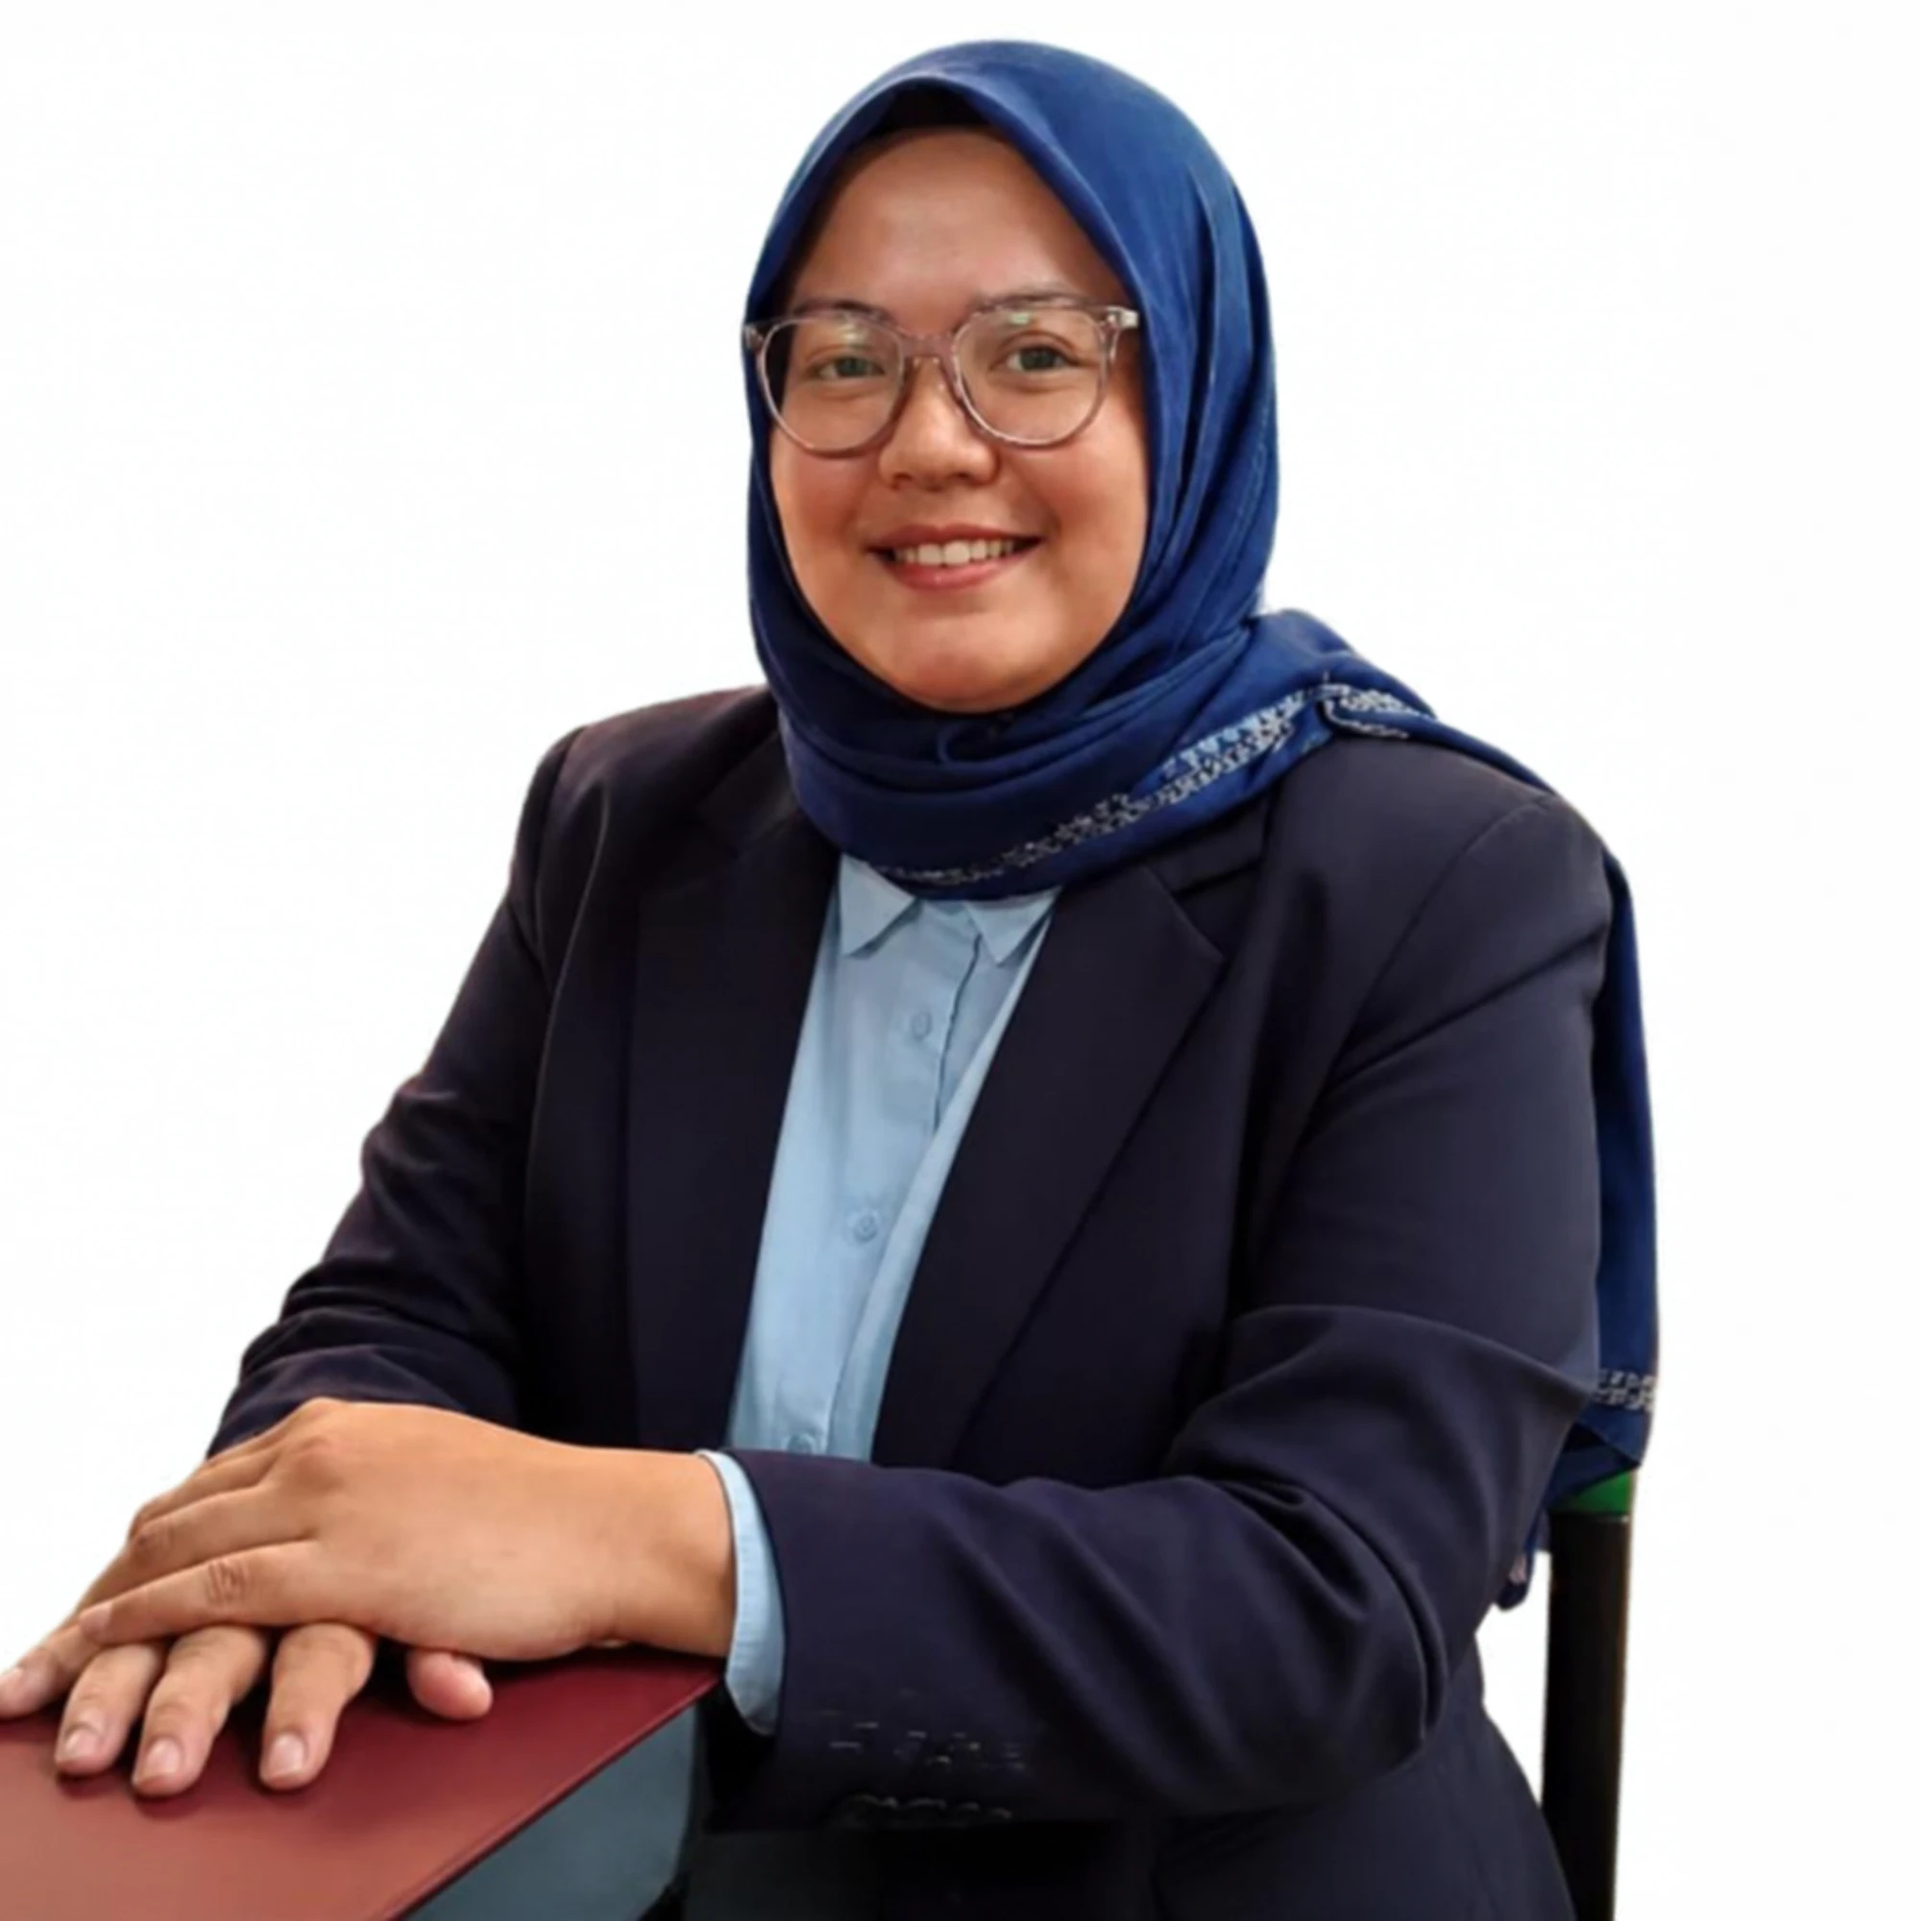
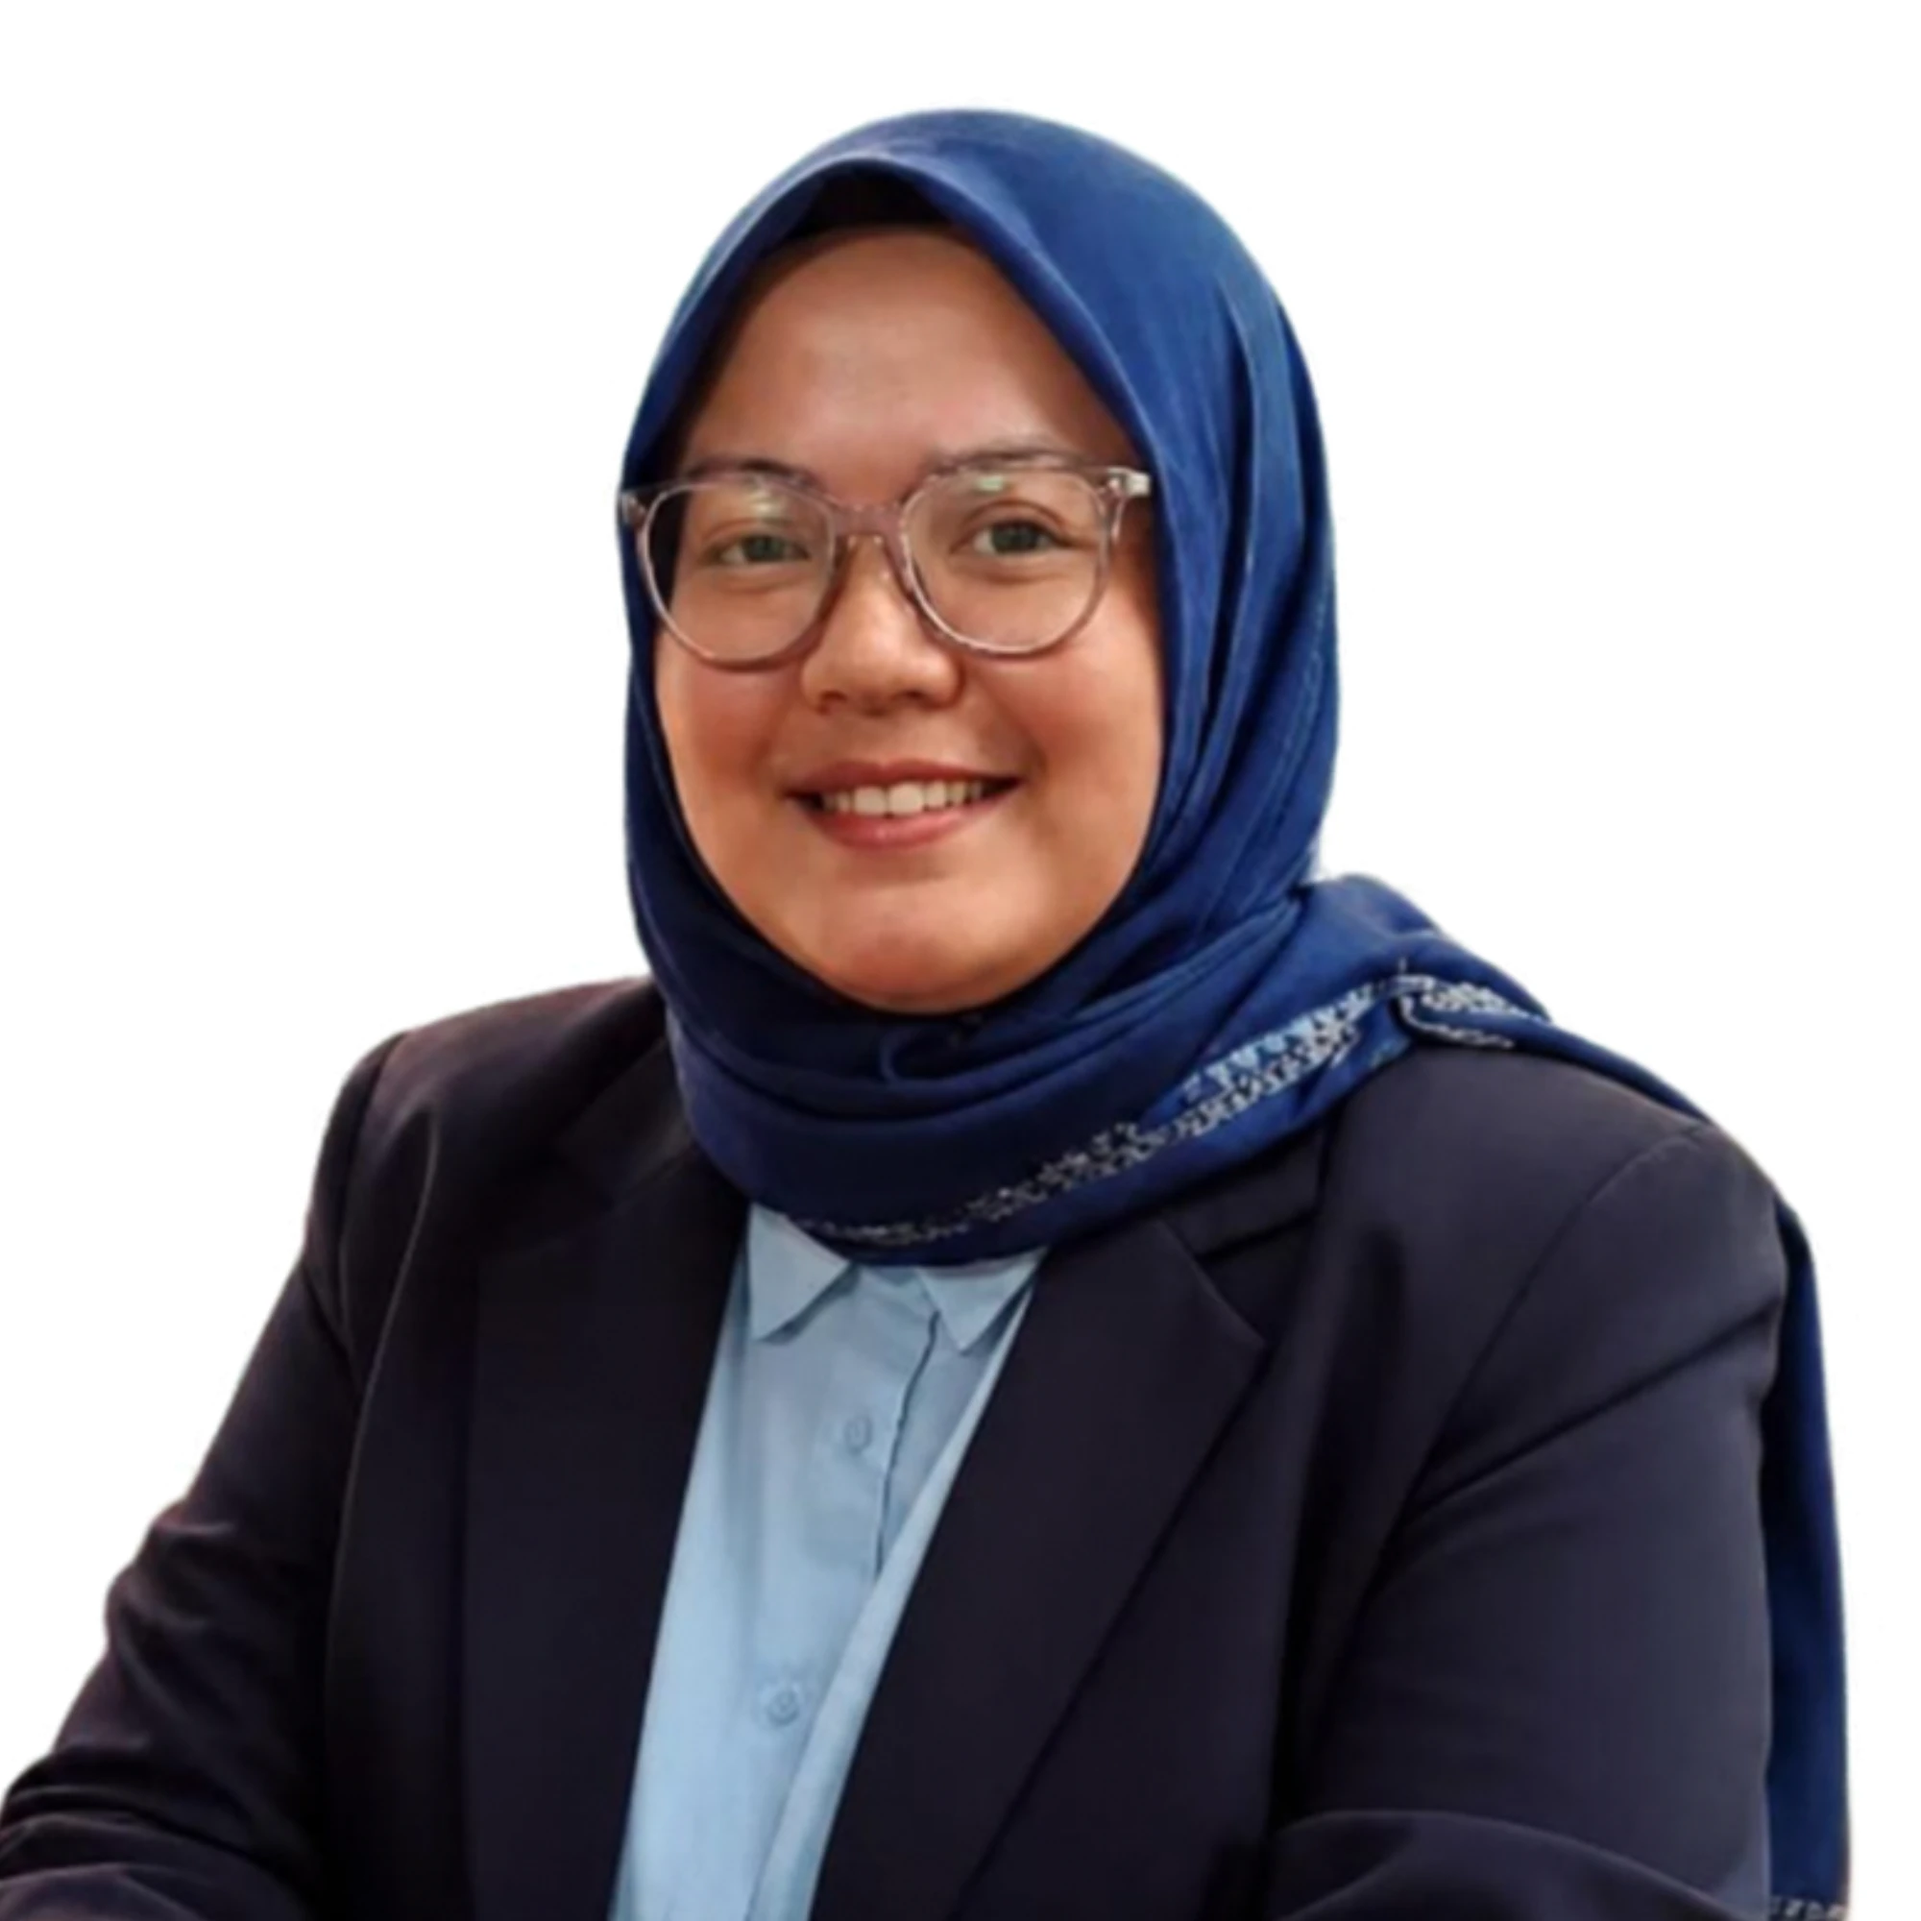
Update foto narasumber, radius card seragam, dan poster bisa diklik
- Ganti foto Aomi Hazelia Dewi dan Indah Chindarwani dengan versi
  terbaru di assets dan section Narasumber & Pemateri
- Radius sudut foto narasumber disamakan di keempat sisi (sebelumnya
  notch-corner asimetris)
- Poster workshop di hero sekarang bisa diklik untuk membuka lightbox
  agar terlihat lebih jelas, plus ukuran poster diperbesar sedikit di
  desktop maupun mobile
- lucide.createIcons() dibungkus try/catch supaya kegagalan load ikon
  tidak menghentikan script countdown & lightbox

Claude-Session: https://claude.ai/code/session_015qWhZgvfSPXgBv58rmP4G6

diff --git a/workshop-haccp.html b/workshop-haccp.html
@@ -203,19 +203,53 @@ p{margin:0; text-align:left}
 
 .hero-poster{
   position:relative; border-radius:var(--radius-l); overflow:hidden;
-  aspect-ratio:4/5; max-width:420px; margin-inline:auto;
-  border:1px solid rgba(0, 77, 64, 0.08);
+  aspect-ratio:4/5; max-width:480px; margin-inline:auto;
+  border:1px solid rgba(0, 77, 64, 0.08); display:block; width:100%;
+  padding:0; background:none; font:inherit; cursor:zoom-in;
   box-shadow:0 24px 48px -12px rgba(0, 77, 64, 0.3);
+  transition:transform .3s ease, box-shadow .3s ease;
 }
+.hero-poster:hover{transform:translateY(-4px); box-shadow:0 28px 56px -12px rgba(0, 77, 64, 0.38)}
+.hero-poster:focus-visible{outline:3px solid var(--s-500); outline-offset:3px}
 .hero-poster::before{
   content:''; position:absolute; top:0; left:0; width:100%; height:6px; z-index:1;
   background:linear-gradient(90deg, #059669 0%, #10B981 50%, #F59E0B 100%);
 }
 .hero-poster__img{width:100%; height:100%; object-fit:cover; display:block}
+.hero-poster__zoom-hint{
+  position:absolute; right:14px; bottom:14px; z-index:2;
+  width:40px; height:40px; border-radius:50%;
+  background:rgba(0, 0, 0, 0.55); color:#fff; display:grid; place-items:center;
+  backdrop-filter:blur(4px); -webkit-backdrop-filter:blur(4px);
+}
 
 @media (max-width:960px){
   .hero__grid{grid-template-columns:1fr; gap:36px}
-  .hero-poster{max-width:340px}
+  .hero-poster{max-width:380px}
+}
+
+/* --- Lightbox Poster --- */
+.lightbox{
+  display:none; position:fixed; inset:0; z-index:200;
+  background:rgba(0, 20, 16, 0.88); backdrop-filter:blur(4px);
+  align-items:center; justify-content:center; padding:32px;
+}
+.lightbox.open{display:flex}
+.lightbox__img{
+  max-width:min(92vw, 520px); max-height:88vh; width:auto; height:auto;
+  border-radius:var(--radius-m); box-shadow:0 24px 60px rgba(0,0,0,.5);
+  display:block;
+}
+.lightbox__close{
+  position:absolute; top:20px; right:20px; z-index:1;
+  width:44px; height:44px; border-radius:50%; border:none; cursor:pointer;
+  background:rgba(255,255,255,0.12); color:#fff; display:grid; place-items:center;
+  transition:background .2s ease;
+}
+.lightbox__close:hover{background:rgba(255,255,255,0.25)}
+@media (max-width:640px){
+  .lightbox{padding:20px}
+  .lightbox__close{top:12px; right:12px}
 }
 
 /* --- SECTION: JADWAL & INVESTASI --- */
@@ -300,7 +334,7 @@ p{margin:0; text-align:left}
 
 .speaker-photo{
   position:relative; width:100%; aspect-ratio:6/5; overflow:hidden;
-  border-radius:28px 28px 0 28px; margin-bottom:20px;
+  border-radius:var(--radius-l); margin-bottom:20px;
   background:linear-gradient(160deg, var(--s-100) 0%, #EAF6F1 100%);
   box-shadow:0 16px 32px -14px rgba(0, 77, 64, 0.28);
 }
@@ -474,12 +508,21 @@ p{margin:0; text-align:left}
       </div>
     </div>
 
-    <!-- POSTER WORKSHOP -->
-    <div class="hero-poster">
+    <!-- POSTER WORKSHOP (klik untuk perbesar) -->
+    <button type="button" class="hero-poster" id="posterTrigger" aria-label="Perbesar poster Workshop HACCP">
       <img src="assets/poster-workshop-haccp.webp" alt="Poster Workshop Penyusunan Dokumen HACCP bersama Sostain Indonesia" class="hero-poster__img">
-    </div>
+      <span class="hero-poster__zoom-hint"><i data-lucide="zoom-in" class="w-5 h-5"></i></span>
+    </button>
   </div>
 </section>
+
+<!-- ================= LIGHTBOX POSTER ================= -->
+<div class="lightbox" id="posterLightbox">
+  <button type="button" class="lightbox__close" id="posterLightboxClose" aria-label="Tutup poster">
+    <i data-lucide="x" class="w-5 h-5"></i>
+  </button>
+  <img src="assets/poster-workshop-haccp.webp" alt="Poster Workshop Penyusunan Dokumen HACCP - ukuran penuh" class="lightbox__img">
+</div>
 
 <!-- ================= SECTION: JADWAL & INVESTASI ================= -->
 <section class="section" id="jadwal">
@@ -807,7 +850,7 @@ p{margin:0; text-align:left}
 
 <!-- Scripts -->
 <script>
-  lucide.createIcons();
+  try { lucide.createIcons(); } catch (e) { console.warn("Lucide icons failed to load", e); }
 
   // Countdown Logic to 10 October 2026 09:00 WIB
   const targetDate = new Date("2026-10-10T09:00:00+07:00").getTime();
@@ -825,6 +868,29 @@ p{margin:0; text-align:left}
   }
   setInterval(updateCountdown, 1000);
   updateCountdown();
+
+  // Lightbox Poster Workshop
+  const posterTrigger = document.getElementById("posterTrigger");
+  const posterLightbox = document.getElementById("posterLightbox");
+  const posterLightboxClose = document.getElementById("posterLightboxClose");
+
+  function openPosterLightbox() {
+    posterLightbox.classList.add("open");
+    document.body.style.overflow = "hidden";
+  }
+  function closePosterLightbox() {
+    posterLightbox.classList.remove("open");
+    document.body.style.overflow = "";
+  }
+
+  posterTrigger.addEventListener("click", openPosterLightbox);
+  posterLightboxClose.addEventListener("click", closePosterLightbox);
+  posterLightbox.addEventListener("click", function (e) {
+    if (e.target === posterLightbox) closePosterLightbox();
+  });
+  document.addEventListener("keydown", function (e) {
+    if (e.key === "Escape") closePosterLightbox();
+  });
 </script>
 </body>
 </html>
